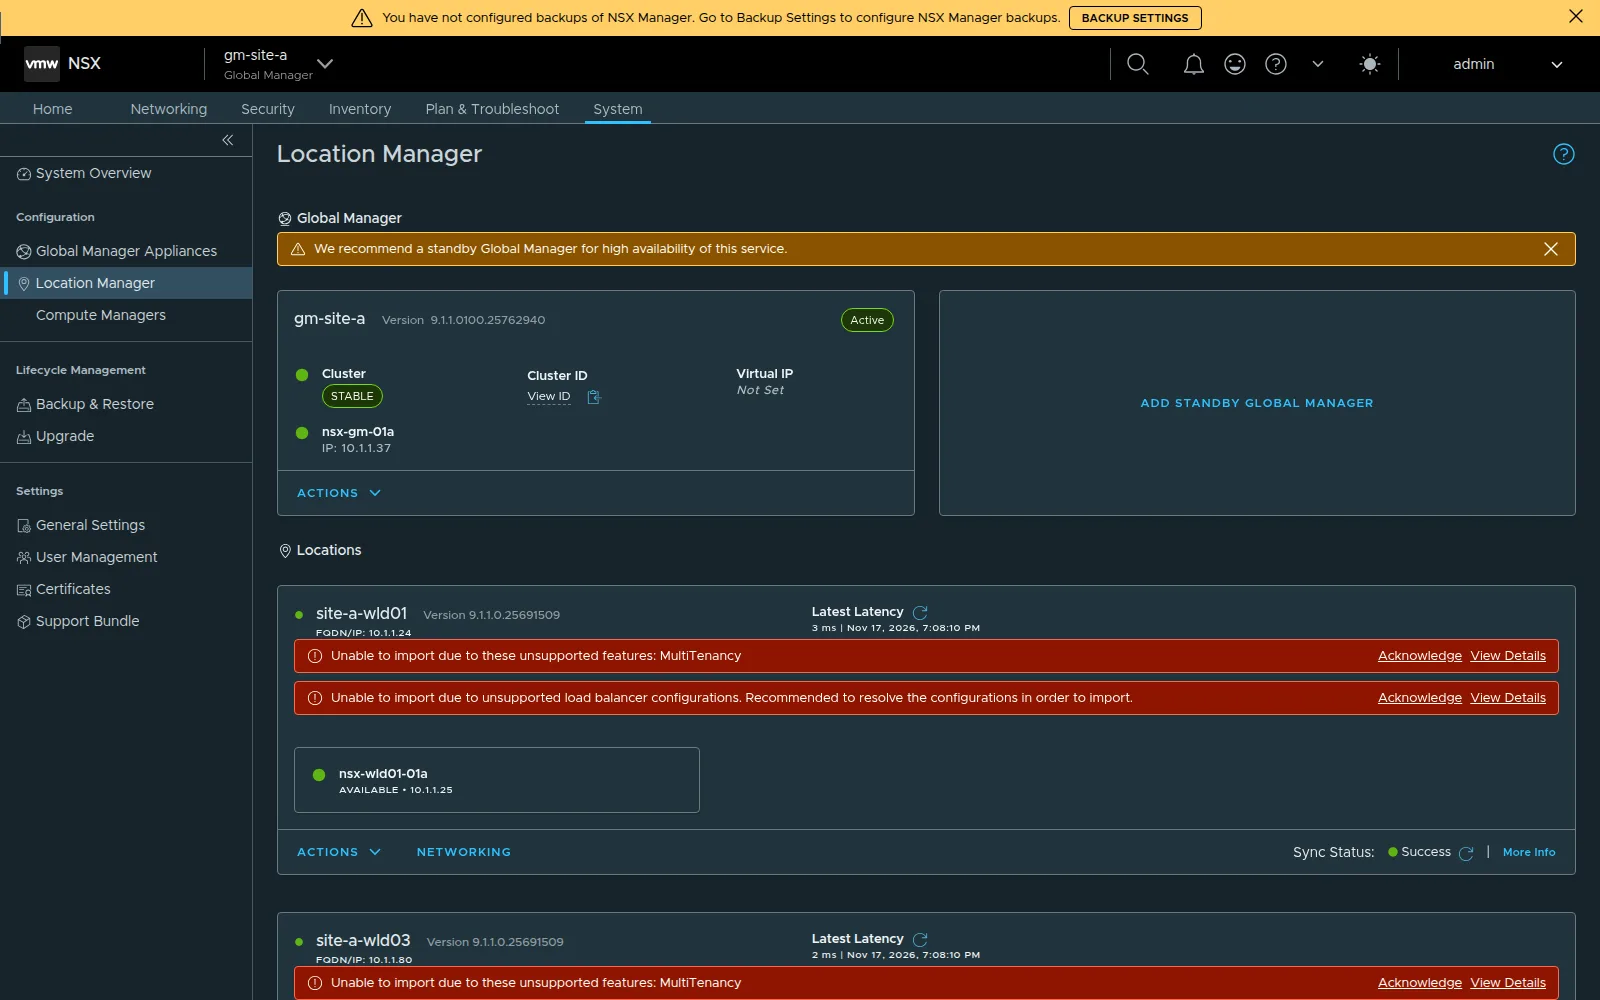
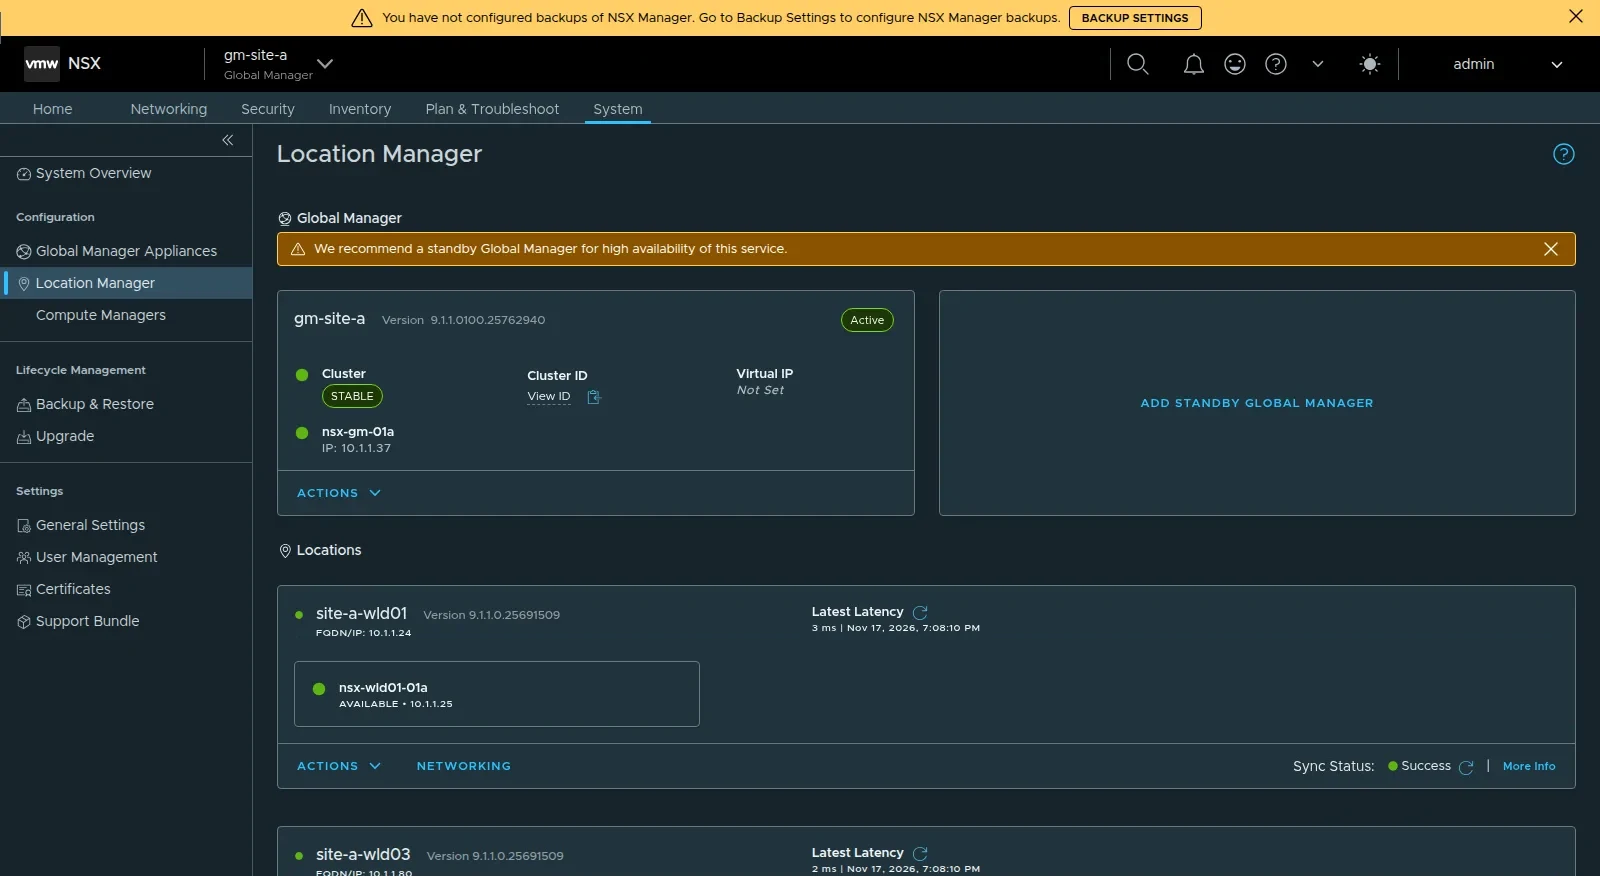
NSX Federation pack posts: drop the reviewer framing, clean Location Manager screenshot (EN/FR)

diff --git a/content/posts/nsx-federation-management-pack-design/index.fr.md b/content/posts/nsx-federation-management-pack-design/index.fr.md
@@ -1,15 +1,15 @@
 ---
 title: "Superviser NSX Federation dans VCF Operations, partie 1 : concevoir le management pack"
 date: 2026-11-17
-description: "VCF Operations 9.1.1 supervise chaque Local Manager NSX mais n'a aucune vue d'une NSX Federation : ni Global Manager, ni synchronisation entre locations, ni tunnels RTEP, ni objets étendus. Ce billet documente la conception d'un management pack sur mesure dans un lab Holodeck : ce que couvre l'intégration native, quels appels d'API NSX portent l'état de la fédération, le modèle d'objets, les alertes, et ce qu'une revue indépendante a changé."
-summary: "Une NSX Federation 9.1 à deux locations tourne dans le lab et VCF Operations n'en montre rien. Partie 1 de la construction du management pack : vérification de l'intégration NSX native, exploration des API du Global Manager et des Local Managers, un modèle de 12 types d'objets, la liste des métriques et des alertes, et les huit changements imposés par une revue indépendante avant la première ligne de code."
+description: "VCF Operations 9.1.1 supervise chaque Local Manager NSX mais n'a aucune vue d'une NSX Federation : ni Global Manager, ni synchronisation entre locations, ni tunnels RTEP, ni objets étendus. Ce billet documente la conception d'un management pack sur mesure dans un lab Holodeck : ce que couvre l'intégration native, quels appels d'API NSX portent l'état de la fédération, le modèle d'objets, les alertes, et ce qu'une vérification à l'échelle d'une grande entreprise a changé."
+summary: "Une NSX Federation 9.1 à deux locations tourne dans le lab et VCF Operations n'en montre rien. Partie 1 de la construction du management pack : vérification de l'intégration NSX native, exploration des API du Global Manager et des Local Managers, un modèle de 12 types d'objets, la liste des métriques et des alertes, et les huit changements imposés par une vérification à l'échelle d'une grande entreprise avant la première ligne de code."
 tags: ["VCF 9.1.1", "NSX Federation", "VCF Operations", "Management pack", "Integration SDK", "Holodeck"]
 categories: ["Notes"]
 showToc: true
 tocOpen: false
 images: ["/images/nsx-federation-mp/object-model.svg"]
 params:
-  seoDescription: "Concevoir un management pack VCF Operations pour NSX 9.1 Federation : appels d'API, modèle d'objets, alertes et changements imposés par une revue indépendante."
+  seoDescription: "Concevoir un management pack VCF Operations pour NSX 9.1 Federation : appels d'API, modèle d'objets, alertes et changements imposés par une vérification à l'échelle entreprise."
 ---
 
 VCF Operations 9.1.1 supervise chaque Local Manager NSX du lab et ne montre rien de la fédération qui les relie. Le Global Manager, l'état de synchronisation entre les locations, les tunnels RTEP et les gateways étendues n'ont ni objet, ni métrique, ni alerte. Ce billet documente la conception d'un management pack qui les ajoute. Aucun code d'adaptateur n'existe encore. La partie 1 s'arrête là où la construction commence.
@@ -135,9 +135,9 @@ Chaque type d'objet reçoit une liste courte. Les métriques sont des nombres co
 
 La première version garde une liste d'alertes courte : une location a perdu son Global Manager, deux locations se sont perdues entre elles, une session BGP inter-site ou un tunnel RTEP est tombé, un objet étendu n'est pas réalisé quelque part dans son span, la synchronisation a échoué, un voisin BGP d'uplink est tombé, la sauvegarde du Global Manager est absente ou ancienne. Trois se déclencheraient dans le lab dès le premier jour : pas de sauvegarde, pas de Global Manager standby, et un écart de build entre le Global Manager (9.1.1.0100) et les locations (9.1.1.0).
 
-## Étape 5 : une revue indépendante
+## Étape 5 : vérifier la conception à l'échelle d'une grande entreprise
 
-Le lab a deux locations et un seul nœud Global Manager. La cible est un pack qu'une grande entreprise pourrait exploiter : des clusters Global Manager à trois nœuds, un actif et un standby sur des sites différents, de nombreuses locations, des milliers d'objets étendus, plusieurs équipes. Un second relecteur, un agent d'IA qui n'a reçu que le plan et rien du raisonnement qui y a mené, a été chargé d'attaquer la conception sur cette base. Huit points ont modifié le plan.
+Le lab a deux locations et un seul nœud Global Manager. La cible est un pack qu'une grande entreprise pourrait exploiter : des clusters Global Manager à trois nœuds, un actif et un standby sur des sites différents, de nombreuses locations, des milliers d'objets étendus, plusieurs équipes. La conception a été vérifiée à nouveau sur cette base. Huit points ont modifié le plan.
 
 1. **Une seule adresse de Global Manager est un défaut de conception.** Après un switchover, l'adaptateur pointerait vers un manager rétrogradé ou mort au moment où il est nécessaire. Il lui faut l'adresse de l'actif et celle du standby, il doit détecter l'actif à chaque cycle, et il doit continuer à collecter sur les Local Managers quand aucun Global Manager ne répond. Deux managers qui revendiquent tous deux le rôle actif deviennent une alerte critique.
 2. **L'état de préparation du standby passe dans la première version.** Pour une équipe qui a un runbook de reprise, « le standby est-il synchronisé et un switchover peut-il démarrer » est la première question. Le premier jet la plaçait en dernier.
@@ -148,9 +148,9 @@ Le lab a deux locations et un seul nœud Global Manager. La cible est un pack qu
 7. **« Secondes depuis le dernier full sync » est le mauvais signal.** Une fédération saine fonctionne en delta sync, et un full sync est l'exception. Les signaux utiles sont l'état de synchronisation, l'occupation des files et les échecs de full sync.
 8. **Le pack doit se superviser lui-même.** Durée de collecte, nombre d'appels d'API et dernier succès par location, pour que « pas de données » ne soit jamais lu comme « sain ».
 
-La revue a aussi contredit un constat de l'étape 2, et la capture d'écran tranche : NSX mesure bien la latence entre managers. Le produit possède ce chiffre, et l'exploration n'a pas trouvé l'API qui le renvoie.
+Cette vérification a aussi contredit un constat de l'étape 2, et la capture d'écran tranche : NSX mesure bien la latence entre managers. Le produit possède ce chiffre, et l'exploration n'a pas trouvé l'API qui le renvoie.
 
-Une mise en garde est revenue avec elle : vingt locations, c'est peut-être plus que ce que NSX 9.1 Federation supporte. Ce point doit être vérifié dans les maximums de configuration avant de fixer les objectifs d'échelle.
+Une mise en garde demeure : vingt locations, c'est peut-être plus que ce que NSX 9.1 Federation supporte. Ce point doit être vérifié dans les maximums de configuration avant de fixer les objectifs d'échelle.
 
 ## Étape 6 : la voie de construction
 

diff --git a/content/posts/nsx-federation-management-pack-design/index.md b/content/posts/nsx-federation-management-pack-design/index.md
@@ -1,15 +1,15 @@
 ---
 title: "Monitoring NSX Federation in VCF Operations, part 1: designing the management pack"
 date: 2026-11-17
-description: "VCF Operations 9.1.1 monitors each NSX Local Manager but has no view of an NSX Federation: no Global Manager, no location sync, no RTEP tunnels, no stretched objects. This post documents the design of a custom management pack on a Holodeck lab: what the built-in integration covers, which NSX API calls carry the federation state, the object model, the alerts, and what an independent review changed."
-summary: "A two-location NSX 9.1 Federation runs in the lab and VCF Operations shows none of it. Part 1 of the management pack build: checking the built-in NSX integration, probing the Global Manager and Local Manager APIs, a 12-kind object model, the metric and alert list, and the eight changes an independent review forced before any code was written."
+description: "VCF Operations 9.1.1 monitors each NSX Local Manager but has no view of an NSX Federation: no Global Manager, no location sync, no RTEP tunnels, no stretched objects. This post documents the design of a custom management pack on a Holodeck lab: what the built-in integration covers, which NSX API calls carry the federation state, the object model, the alerts, and what a check at enterprise scale changed."
+summary: "A two-location NSX 9.1 Federation runs in the lab and VCF Operations shows none of it. Part 1 of the management pack build: checking the built-in NSX integration, probing the Global Manager and Local Manager APIs, a 12-kind object model, the metric and alert list, and the eight changes a check at enterprise scale forced before any code was written."
 tags: ["VCF 9.1.1", "NSX Federation", "VCF Operations", "Management pack", "Integration SDK", "Holodeck"]
 categories: ["Field notes"]
 showToc: true
 tocOpen: false
 images: ["/images/nsx-federation-mp/object-model.svg"]
 params:
-  seoDescription: "Designing a VCF Operations management pack for NSX 9.1 Federation: API calls, object model, alerts and the changes an independent review forced."
+  seoDescription: "Designing a VCF Operations management pack for NSX 9.1 Federation: API calls, object model, alerts and the changes a check at enterprise scale forced."
 ---
 
 VCF Operations 9.1.1 monitors every NSX Local Manager in the lab and shows nothing of the federation that links them. The Global Manager, the sync state between locations, the RTEP tunnels and the stretched gateways have no object, no metric and no alert. This post documents the design of a management pack that adds them. No adapter code exists yet. Part 1 stops where the build starts.
@@ -135,9 +135,9 @@ Each object kind gets a short list. Metrics are numbers kept over time; properti
 
 The first release keeps the alert list short: a location lost its Global Manager, two locations lost each other, an inter-site BGP session or RTEP tunnel is down, a stretched object is not realized somewhere in its span, the sync failed, an uplink BGP neighbor is down, the Global Manager backup is missing or old. Three would fire in the lab on day one: no backup, no standby Global Manager, and a build mismatch between the Global Manager (9.1.1.0100) and the locations (9.1.1.0).
 
-## Step 5: an independent review
+## Step 5: checking the design at enterprise scale
 
-The lab has two locations and one Global Manager node. The target is a pack a large enterprise could run: three-node Global Manager clusters, an active and a standby in different sites, many locations, thousands of stretched objects, several teams. A second reviewer, an AI agent given only the plan and none of the reasoning behind it, was asked to attack the design on that basis. Eight points changed the plan.
+The lab has two locations and one Global Manager node. The target is a pack a large enterprise could run: three-node Global Manager clusters, an active and a standby in different sites, many locations, thousands of stretched objects, several teams. The design was checked again on that basis. Eight points changed the plan.
 
 1. **One Global Manager address is a design fault.** After a switchover the adapter would point at a demoted or dead manager at the moment it is needed. It needs the active and the standby address, has to detect the active one on every cycle, and has to keep collecting from the Local Managers when no Global Manager answers. Two managers both claiming the active role becomes a critical alert.
 2. **Standby readiness moves to the first release.** For a team with a DR runbook, "is the standby in sync and can a switchover start" is the first question. The draft had it last.
@@ -148,9 +148,9 @@ The lab has two locations and one Global Manager node. The target is a pack a la
 7. **"Seconds since the last full sync" is the wrong signal.** A healthy federation runs on delta sync, and a full sync is the exception. The useful signals are sync status, queue occupancy and full-sync failures.
 8. **The pack has to monitor itself.** Collection time, API call count and last success per location, so that "no data" is never read as "healthy".
 
-The review also contradicted one finding of step 2, and the screenshot settles it: NSX does measure latency between managers. The product has the number, and the probe failed to find the API that returns it.
+The check also contradicted one finding of step 2, and the screenshot settles it: NSX does measure latency between managers. The product has the number, and the probe failed to find the API that returns it.
 
-One caution came back with it: twenty locations may be more than NSX 9.1 Federation supports. That has to be checked against the configuration maximums before the scale targets are written down.
+One caution remains: twenty locations may be more than NSX 9.1 Federation supports. That has to be checked against the configuration maximums before the scale targets are written down.
 
 ## Step 6: the build route
 

diff --git a/content/posts/nsx-federation-management-pack-install/index.md b/content/posts/nsx-federation-management-pack-install/index.md
@@ -149,7 +149,7 @@ A check two minutes after the first cycle shows objects with no metrics, which l
 
 ## What the pack captures
 
-65 objects of 14 types, 312 metrics per cycle. Part 1 planned 12 types. The review added the federation itself, the sync channel and the realization of an object at a location, and rules became opt-in.
+65 objects of 14 types, 312 metrics per cycle. Part 1 planned 12 types. The enterprise-scale check added the federation itself, the sync channel and the realization of an object at a location, and rules became opt-in.
 
 | Object type | Count in the lab | Examples of what is collected |
 | --- | --- | --- |
